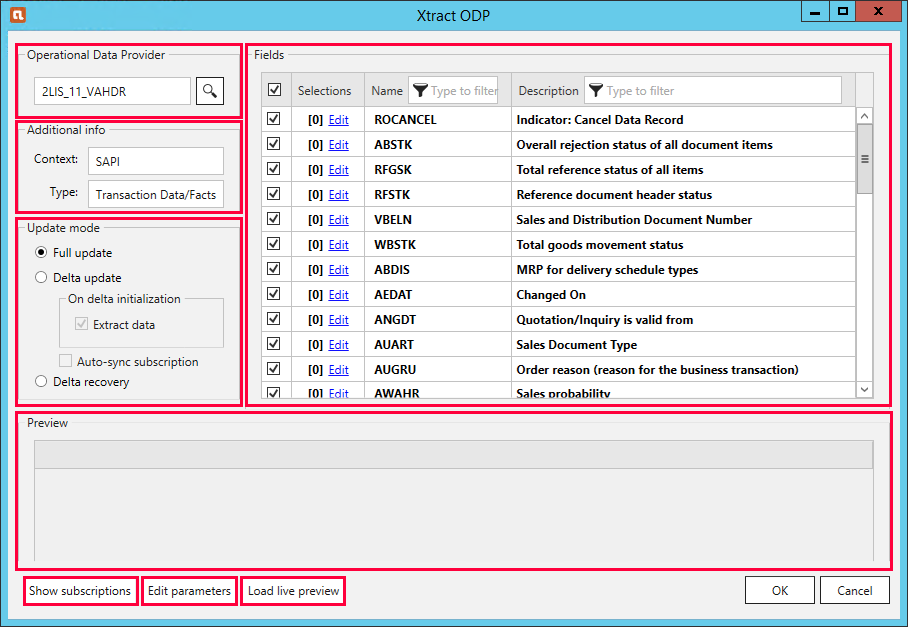
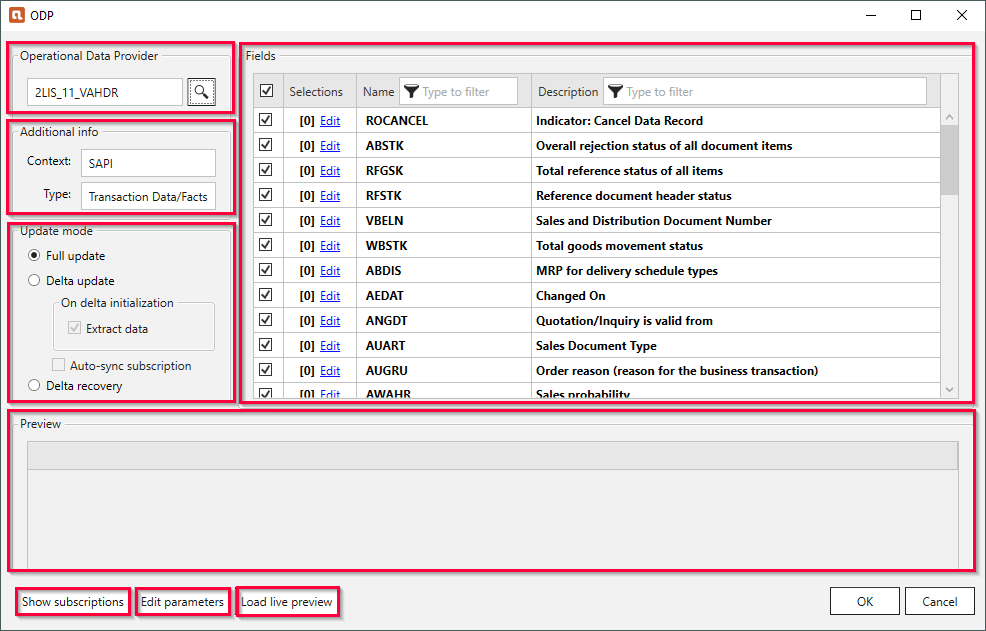
XfA screenshot update

Changed region(s): [[0.0, 0.0, 1.0, 1.0]]

diff --git a/content/_en/xtract-for-alteryx/odp/odp-functions-ov.md b/content/_en/xtract-for-alteryx/odp/odp-functions-ov.md
@@ -12,7 +12,7 @@ progressstate: 5
 ---
 
 The following section describes the settings of the Xtract ODP component that can be accessed through the main component window “Xtract ODP”.
-![ODP Component](/img/content/odp/odp_overview.png){:class="img-responsive"}
+![ODP Component](/img/content/xfa/xfa_odp_overview.png){:class="img-responsive"}
 
 {% include _content/en/odp/odp-settings-update_mode.md %} 
 {% include _content/en/odp/odp-settings-filtering.md %}
